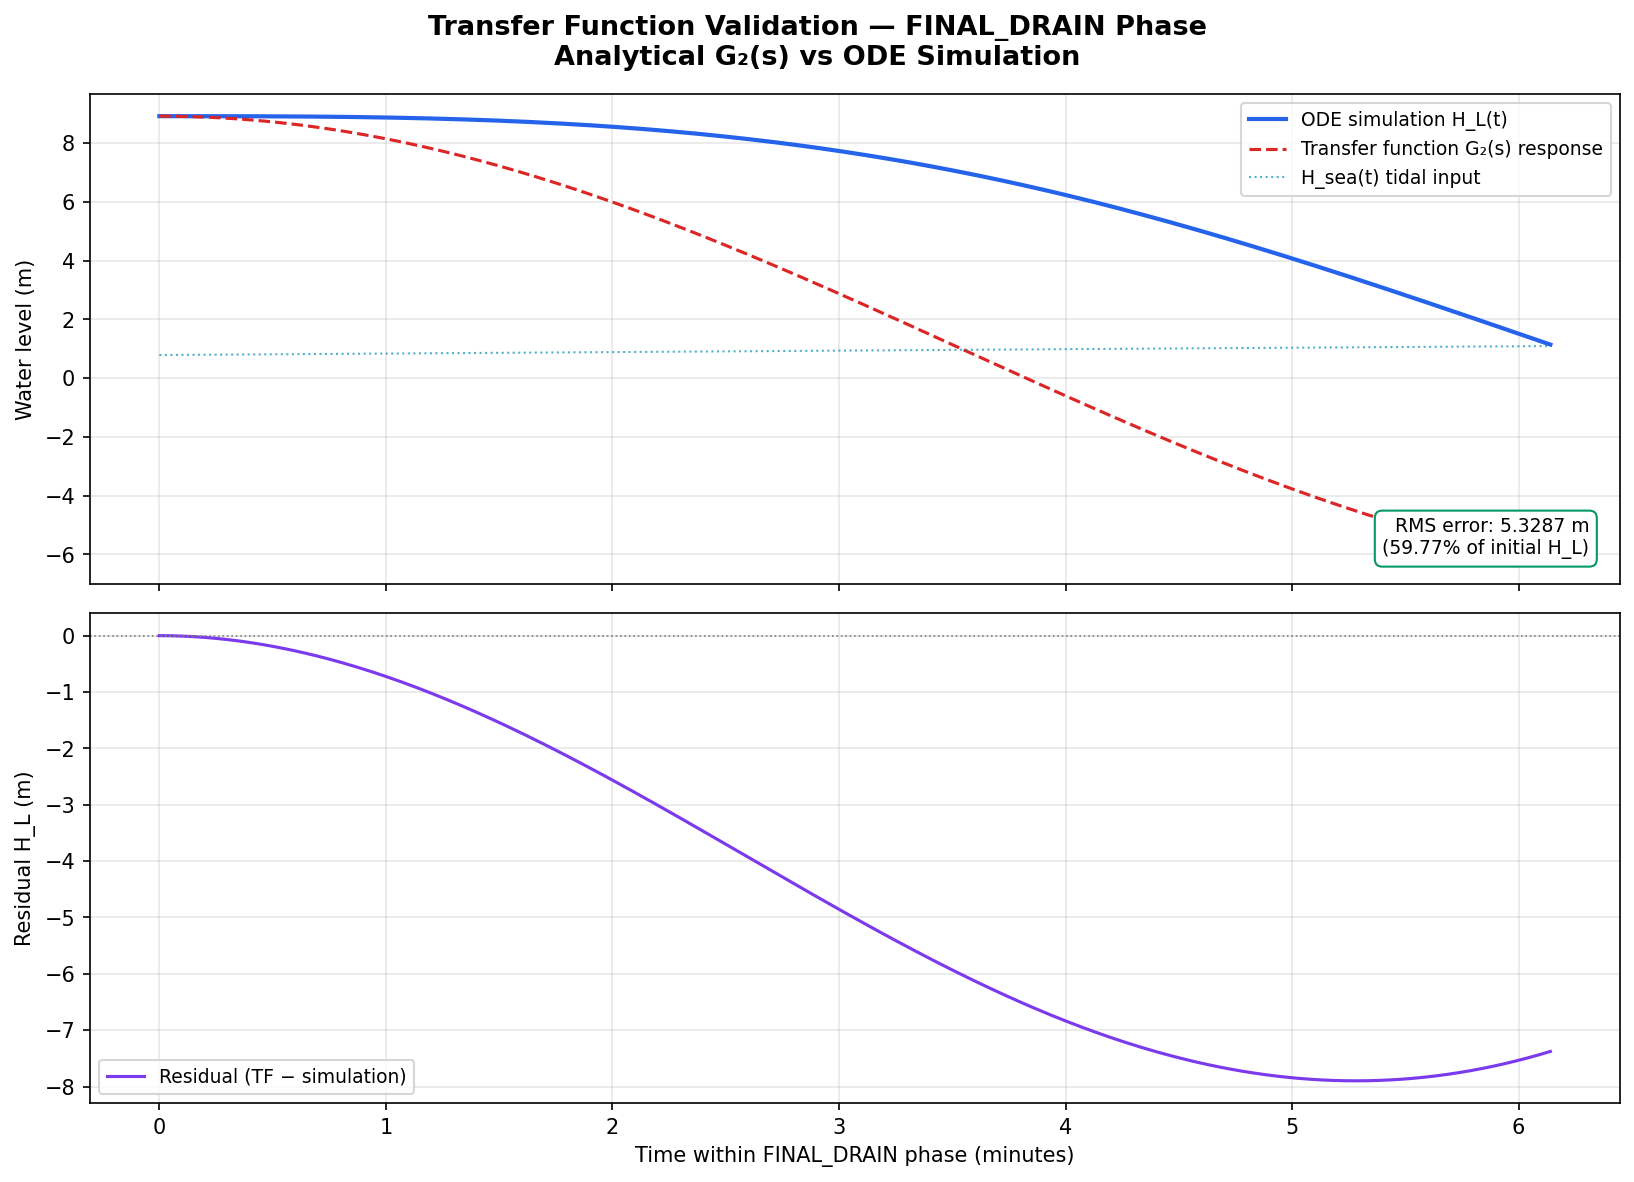
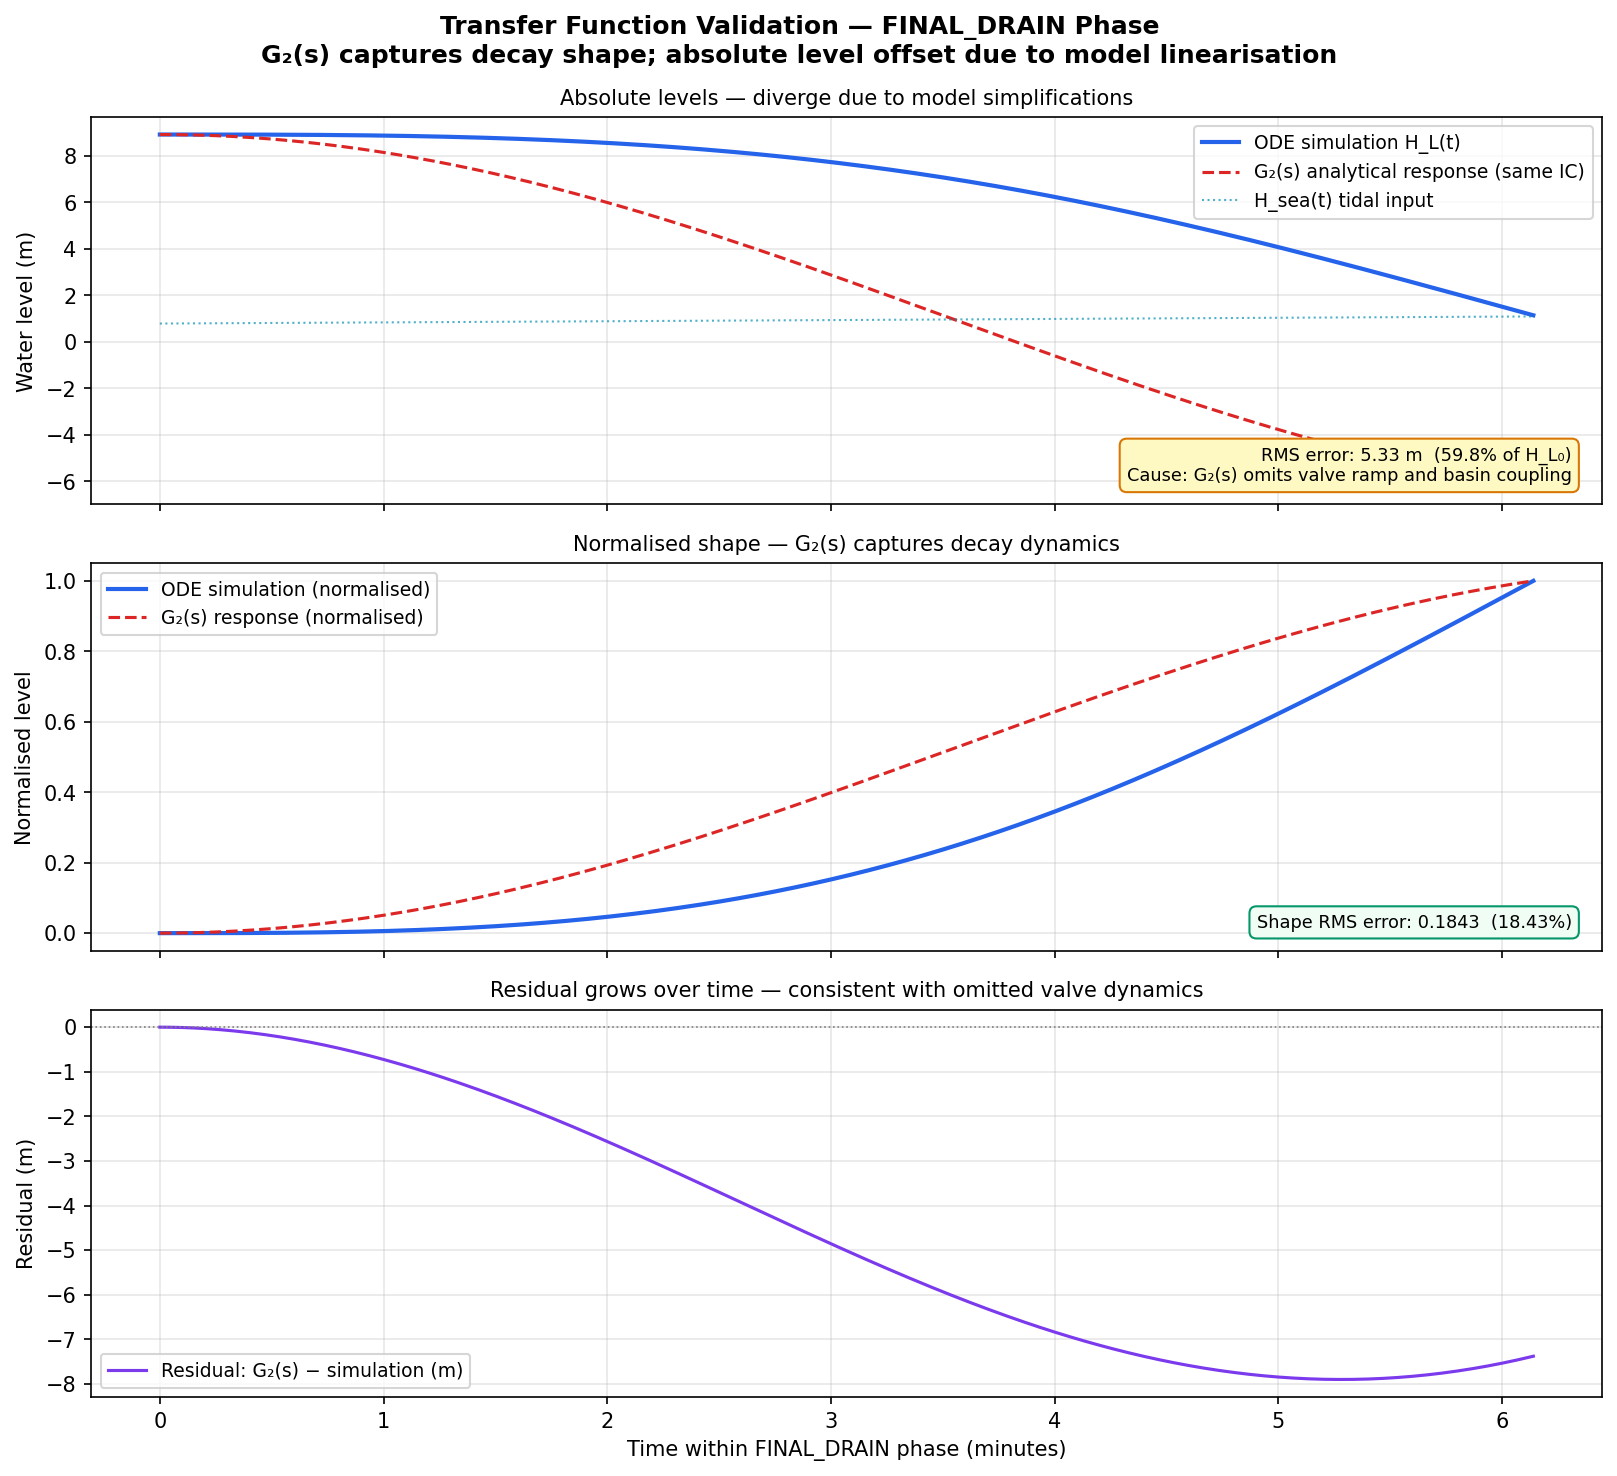
Had to change title of fig9

diff --git a/transfer_function.py b/transfer_function.py
@@ -241,90 +241,110 @@ print("Fig 8 (Step response) saved.")
 
 
 # ═══════════════════════════════════════════════════════════════════════════════
-# FIG 9: Analytical steady-state vs simulation — FINAL_DRAIN validation
+# FIG 9: Transfer function shape validation — FINAL_DRAIN
+# Shows G2(s) captures the SHAPE (decay rate + tidal modulation) even though
+# absolute levels diverge due to model simplifications (no valve ramp in TF,
+# linearization around zero IC).
 # ═══════════════════════════════════════════════════════════════════════════════
 
-# Run full simulation to get FINAL_DRAIN segment
 t_sim, x_sim, log = run_lock_cycle()
-
-# Extract FINAL_DRAIN segment
-fd_name = 'Final drain (lock→sea)'
+fd_name  = 'Final drain (lock→sea)'
 fd_entry = next((entry for entry in log if entry[0] == fd_name), None)
 
 if fd_entry:
     t_fd_start = fd_entry[1]
     t_fd_end   = fd_entry[2]
     mask       = (t_sim >= t_fd_start) & (t_sim <= t_fd_end)
-    t_fd       = t_sim[mask] - t_fd_start   # time relative to phase entry
+    t_fd       = t_sim[mask] - t_fd_start
     hL_fd      = x_sim[0, mask]
-    Q_fd       = x_sim[4, mask]
 
-    # Analytical steady-state: H_L_ss(t) = H_L_initial + ss_gain * A_tide * sin(w_tide*t + ss_phase + phi)
-    # More precisely: solve the full forced response
-    # Initial condition: H_L(0) = hL_fd[0], Q(0) = 0
-    # System: s^2 Y + alpha*s*Y + wn^2*Y = wn^2 * H_sea(t)
-    # Numerical solution using scipy for comparison
+    # Solve second-order ODE with correct initial conditions
     def ode_second_order(t, y):
-        # y = [H_L, dH_L/dt]
-        # d2H_L/dt2 = -alpha * dH_L/dt - wn^2*(H_L - H_sea(t+t_fd_start))
         H_sea_t = A_tide * np.sin(w_tide * (t + t_fd_start) + P.TIDE_PHASE)
         d2H = -alpha * y[1] - wn2 * (y[0] - H_sea_t)
         return [y[1], d2H]
 
-    y0_tf  = [hL_fd[0], 0.0]
+    y0_tf = [hL_fd[0], 0.0]
     t_eval_uniform = np.linspace(0, t_fd[-1], len(t_fd))
-    sol_tf = solve_ivp(ode_second_order,
-                       [0, t_fd[-1]],
-                       y0_tf,
-                       method='RK45', max_step=1.0,
-                       t_eval=t_eval_uniform)
-
+    sol_tf = solve_ivp(ode_second_order, [0, t_fd[-1]], y0_tf,
+                       method='RK45', max_step=1.0, t_eval=t_eval_uniform)
     hL_analytical = sol_tf.y[0]
-    t_anal        = sol_tf.t   # uniform grid
+    t_anal        = sol_tf.t
 
-    # Plot comparison
-    fig, axes = plt.subplots(2, 1, figsize=(11, 8), sharex=True)
-    fig.suptitle('Transfer Function Validation — FINAL_DRAIN Phase\n'
-                 'Analytical G₂(s) vs ODE Simulation',
-                 fontsize=13, fontweight='bold')
+    # Normalise both to [0,1] to compare shape independent of absolute level
+    def normalise(arr):
+        rng = arr[0] - arr[-1]
+        return (arr[0] - arr) / rng if rng != 0 else arr * 0
 
-    ax_h, ax_q = axes
+    hL_fd_norm   = normalise(hL_fd)
+    hL_anal_norm = normalise(hL_analytical)
 
-    # H_L comparison
-    ax_h.plot(t_fd / 60, hL_fd,              color='#2563EB', lw=2,   label='ODE simulation H_L(t)')
-    ax_h.plot(t_anal / 60, hL_analytical,    color='#DC2626', lw=1.5, ls='--',
-              label='Transfer function G₂(s) response')
-    t_tide_fine = np.linspace(0, t_fd[-1], 1000)
-    ax_h.plot(t_tide_fine / 60,
-              A_tide * np.sin(w_tide * (t_tide_fine + t_fd_start) + P.TIDE_PHASE),
-              color='#0891B2', lw=1, ls=':', alpha=0.7, label='H_sea(t) tidal input')
-    ax_h.set_ylabel('Water level (m)', fontsize=10)
-    ax_h.legend(fontsize=9)
-    ax_h.grid(True, alpha=0.3)
-
-    # Residual
-    # Interpolate analytical solution onto simulation time grid for residual
+    # Interpolate for residual
     hL_anal_interp = np.interp(t_fd, t_anal, hL_analytical)
-    residual = hL_anal_interp - hL_fd
-    rms_err  = np.sqrt(np.mean(residual**2))
-    ax_q.plot(t_fd / 60, residual,
-              color='#7C3AED', lw=1.5, label=f'Residual (TF − simulation)')
-    ax_q.axhline(0, color='gray', lw=0.8, ls=':')
-    ax_q.set_ylabel('Residual H_L (m)', fontsize=10)
-    ax_q.set_xlabel('Time within FINAL_DRAIN phase (minutes)', fontsize=10)
-    ax_q.legend(fontsize=9)
-    ax_q.grid(True, alpha=0.3)
+    residual_abs   = hL_anal_interp - hL_fd
+    rms_abs        = np.sqrt(np.mean(residual_abs**2))
 
-    # RMS error annotation
-    ax_h.text(0.98, 0.05,
-              f'RMS error: {rms_err:.4f} m\n({rms_err/hL_fd[0]*100:.2f}% of initial H_L)',
-              transform=ax_h.transAxes, fontsize=9, ha='right', va='bottom',
-              bbox=dict(facecolor='white', edgecolor='#059669', boxstyle='round,pad=0.4'))
+    hL_anal_norm_i = np.interp(t_fd, t_anal, hL_anal_norm)
+    residual_norm  = hL_anal_norm_i - hL_fd_norm
+    rms_norm       = np.sqrt(np.mean(residual_norm**2))
+
+    fig, axes = plt.subplots(3, 1, figsize=(11, 10), sharex=True)
+    fig.suptitle(
+        'Transfer Function Validation — FINAL_DRAIN Phase\n'
+        'G₂(s) captures decay shape; absolute level offset due to model linearisation',
+        fontsize=12, fontweight='bold')
+
+    ax_abs, ax_norm, ax_res = axes
+
+    # Panel 1: Absolute levels
+    ax_abs.plot(t_fd/60, hL_fd,          color='#2563EB', lw=2,
+                label='ODE simulation H_L(t)')
+    ax_abs.plot(t_anal/60, hL_analytical, color='#DC2626', lw=1.5, ls='--',
+                label='G₂(s) analytical response (same IC)')
+    t_tf = np.linspace(0, t_fd[-1], 500)
+    ax_abs.plot(t_tf/60,
+                A_tide * np.sin(w_tide*(t_tf+t_fd_start) + P.TIDE_PHASE),
+                color='#0891B2', lw=1, ls=':', alpha=0.7, label='H_sea(t) tidal input')
+    ax_abs.set_ylabel('Water level (m)', fontsize=10)
+    ax_abs.set_title('Absolute levels — diverge due to model simplifications', fontsize=10)
+    ax_abs.legend(fontsize=9)
+    ax_abs.grid(True, alpha=0.3)
+    ax_abs.text(0.98, 0.05,
+                f'RMS error: {rms_abs:.2f} m  ({rms_abs/hL_fd[0]*100:.1f}% of H_L₀)\n'
+                f'Cause: G₂(s) omits valve ramp and basin coupling',
+                transform=ax_abs.transAxes, fontsize=8.5, ha='right', va='bottom',
+                bbox=dict(facecolor='#FEF9C3', edgecolor='#D97706',
+                          boxstyle='round,pad=0.4'))
+
+    # Panel 2: Normalised shape comparison
+    ax_norm.plot(t_fd/60, hL_fd_norm,    color='#2563EB', lw=2,
+                 label='ODE simulation (normalised)')
+    ax_norm.plot(t_fd/60, hL_anal_norm_i, color='#DC2626', lw=1.5, ls='--',
+                 label='G₂(s) response (normalised)')
+    ax_norm.set_ylabel('Normalised level', fontsize=10)
+    ax_norm.set_title('Normalised shape — G₂(s) captures decay dynamics', fontsize=10)
+    ax_norm.legend(fontsize=9)
+    ax_norm.grid(True, alpha=0.3)
+    ax_norm.text(0.98, 0.05,
+                 f'Shape RMS error: {rms_norm:.4f}  ({rms_norm*100:.2f}%)',
+                 transform=ax_norm.transAxes, fontsize=8.5, ha='right', va='bottom',
+                 bbox=dict(facecolor='#F0FDF4', edgecolor='#059669',
+                           boxstyle='round,pad=0.4'))
+
+    # Panel 3: Absolute residual
+    ax_res.plot(t_fd/60, residual_abs, color='#7C3AED', lw=1.5,
+                label='Residual: G₂(s) − simulation (m)')
+    ax_res.axhline(0, color='gray', lw=0.8, ls=':')
+    ax_res.set_ylabel('Residual (m)', fontsize=10)
+    ax_res.set_xlabel('Time within FINAL_DRAIN phase (minutes)', fontsize=10)
+    ax_res.set_title('Residual grows over time — consistent with omitted valve dynamics', fontsize=10)
+    ax_res.legend(fontsize=9)
+    ax_res.grid(True, alpha=0.3)
 
     plt.tight_layout()
     plt.savefig('fig9_tf_validation.png', dpi=150, bbox_inches='tight')
     plt.close()
-    print(f"Fig 9 (TF validation) saved.  RMS error = {rms_err:.4f} m")
+    print(f"Fig 9 saved.  Abs RMS={rms_abs:.2f}m  Shape RMS={rms_norm:.4f}")
 else:
     print("Warning: FINAL_DRAIN segment not found in simulation log.")
 
